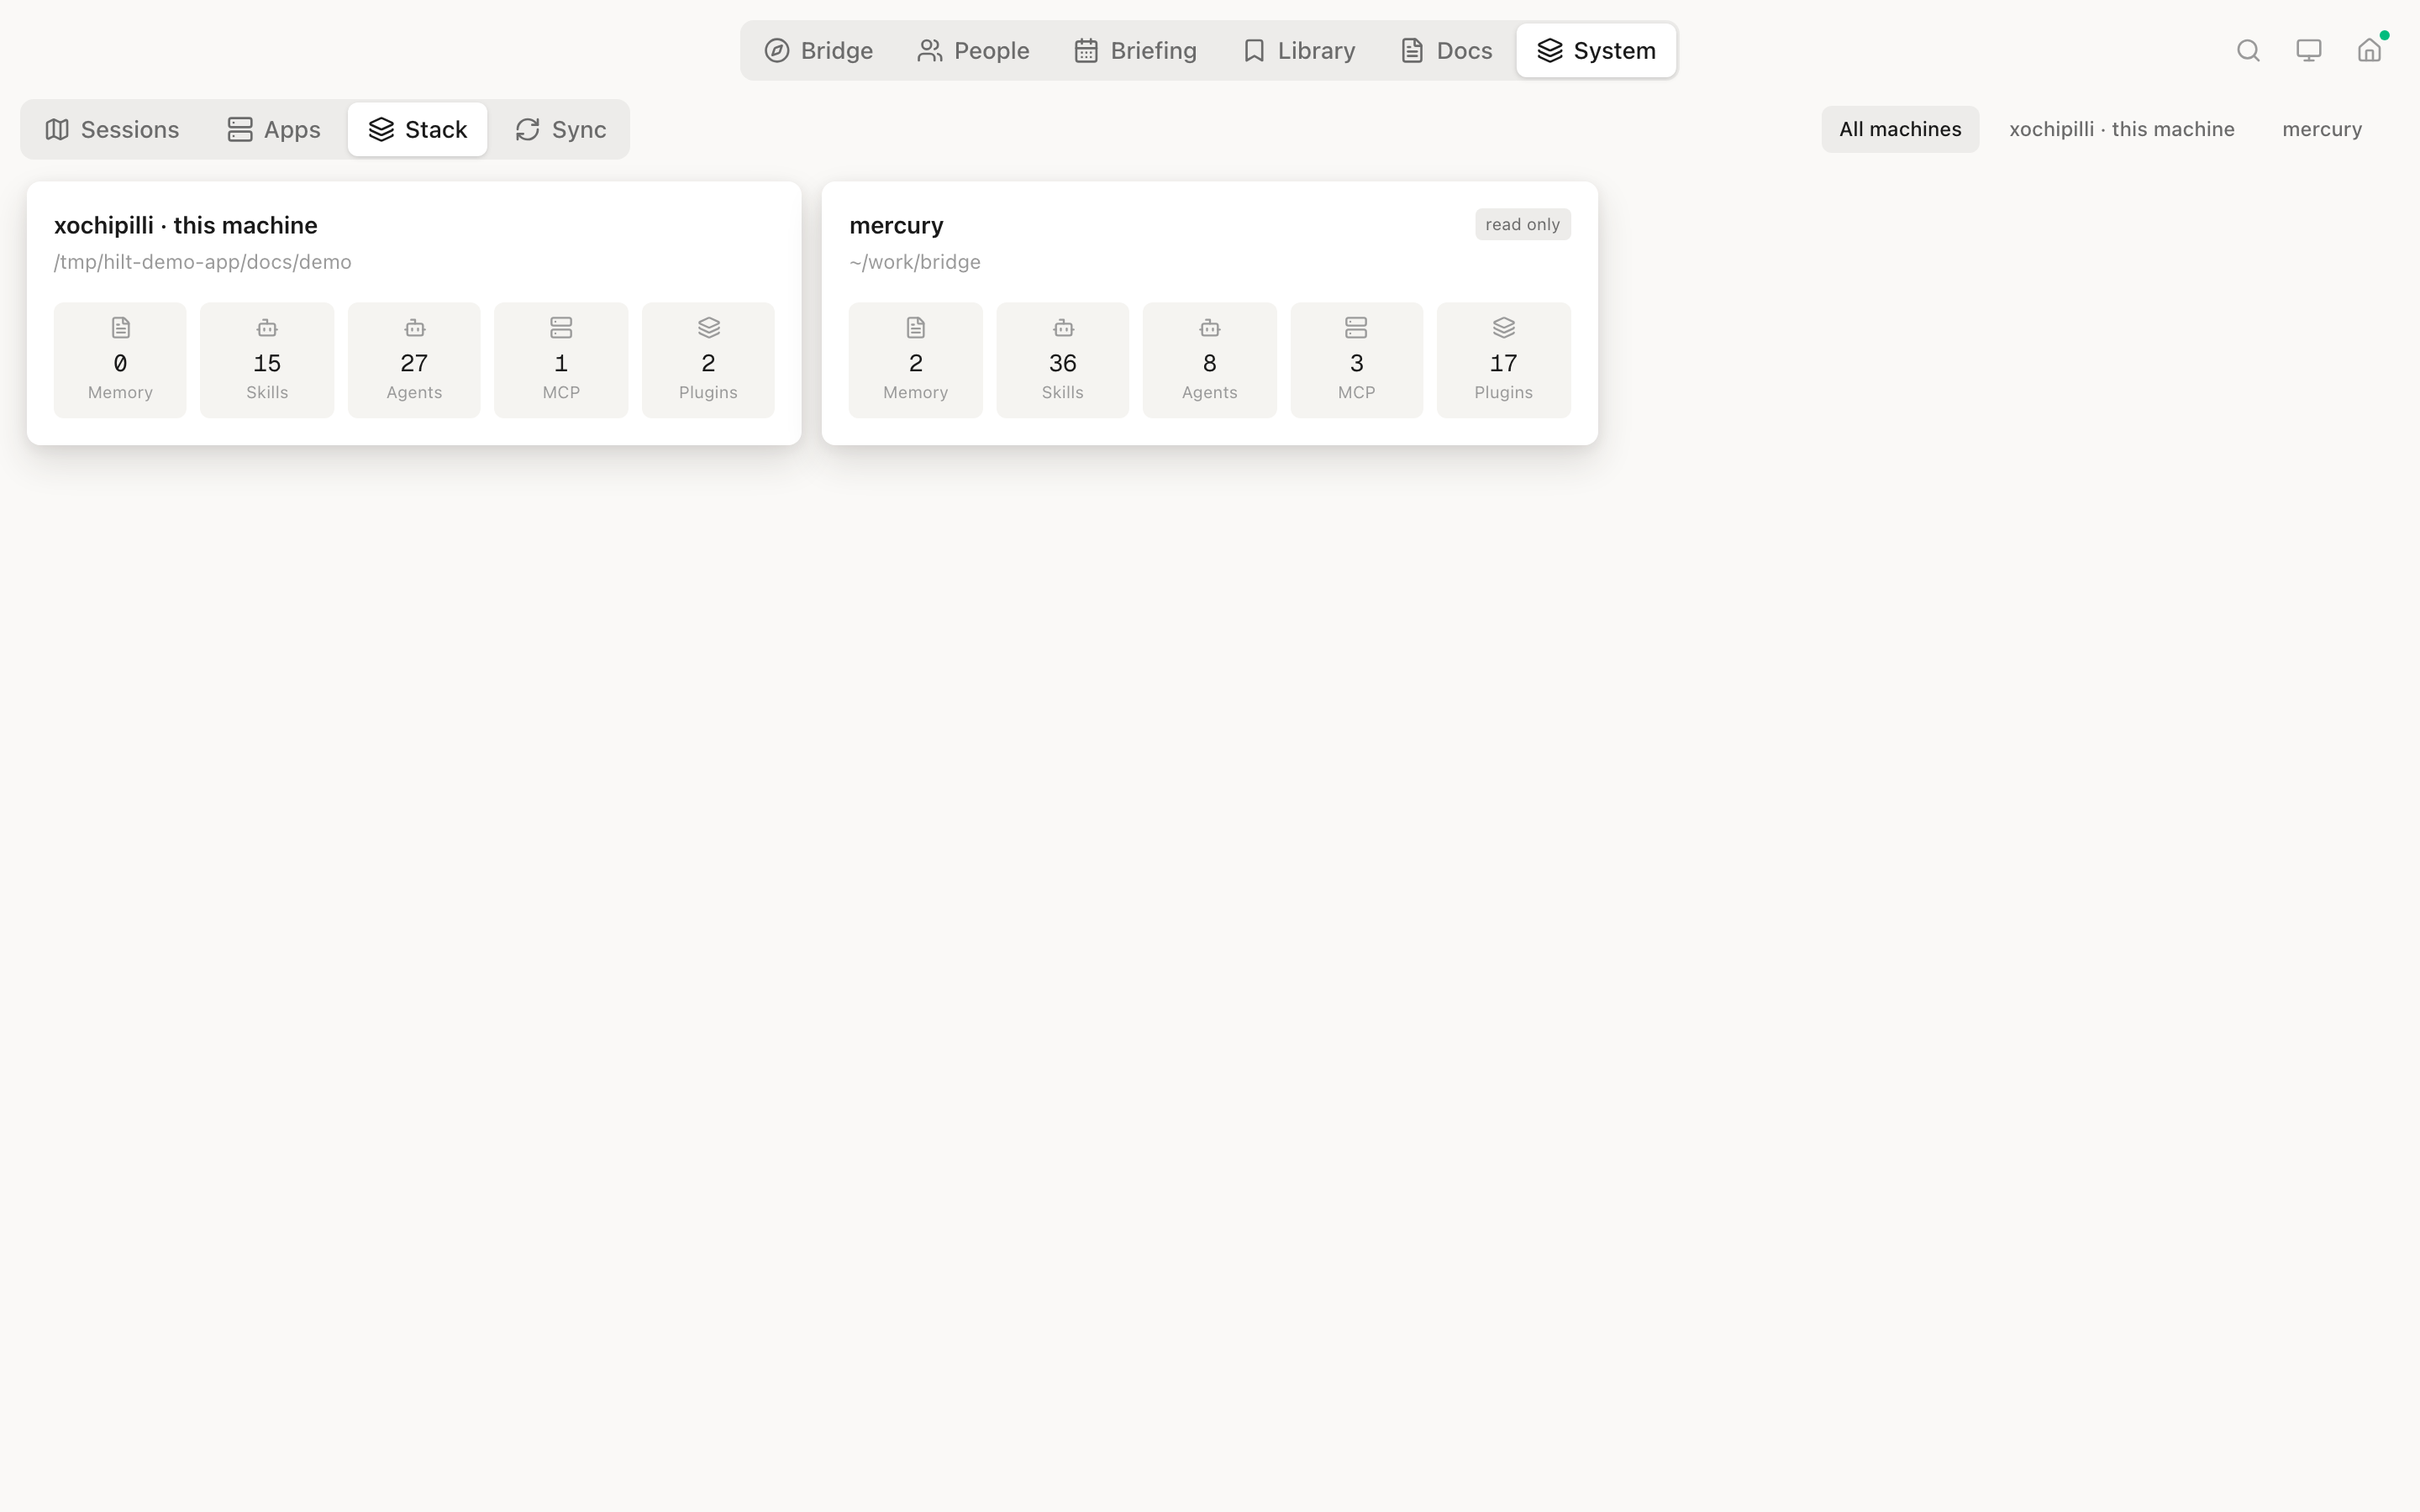
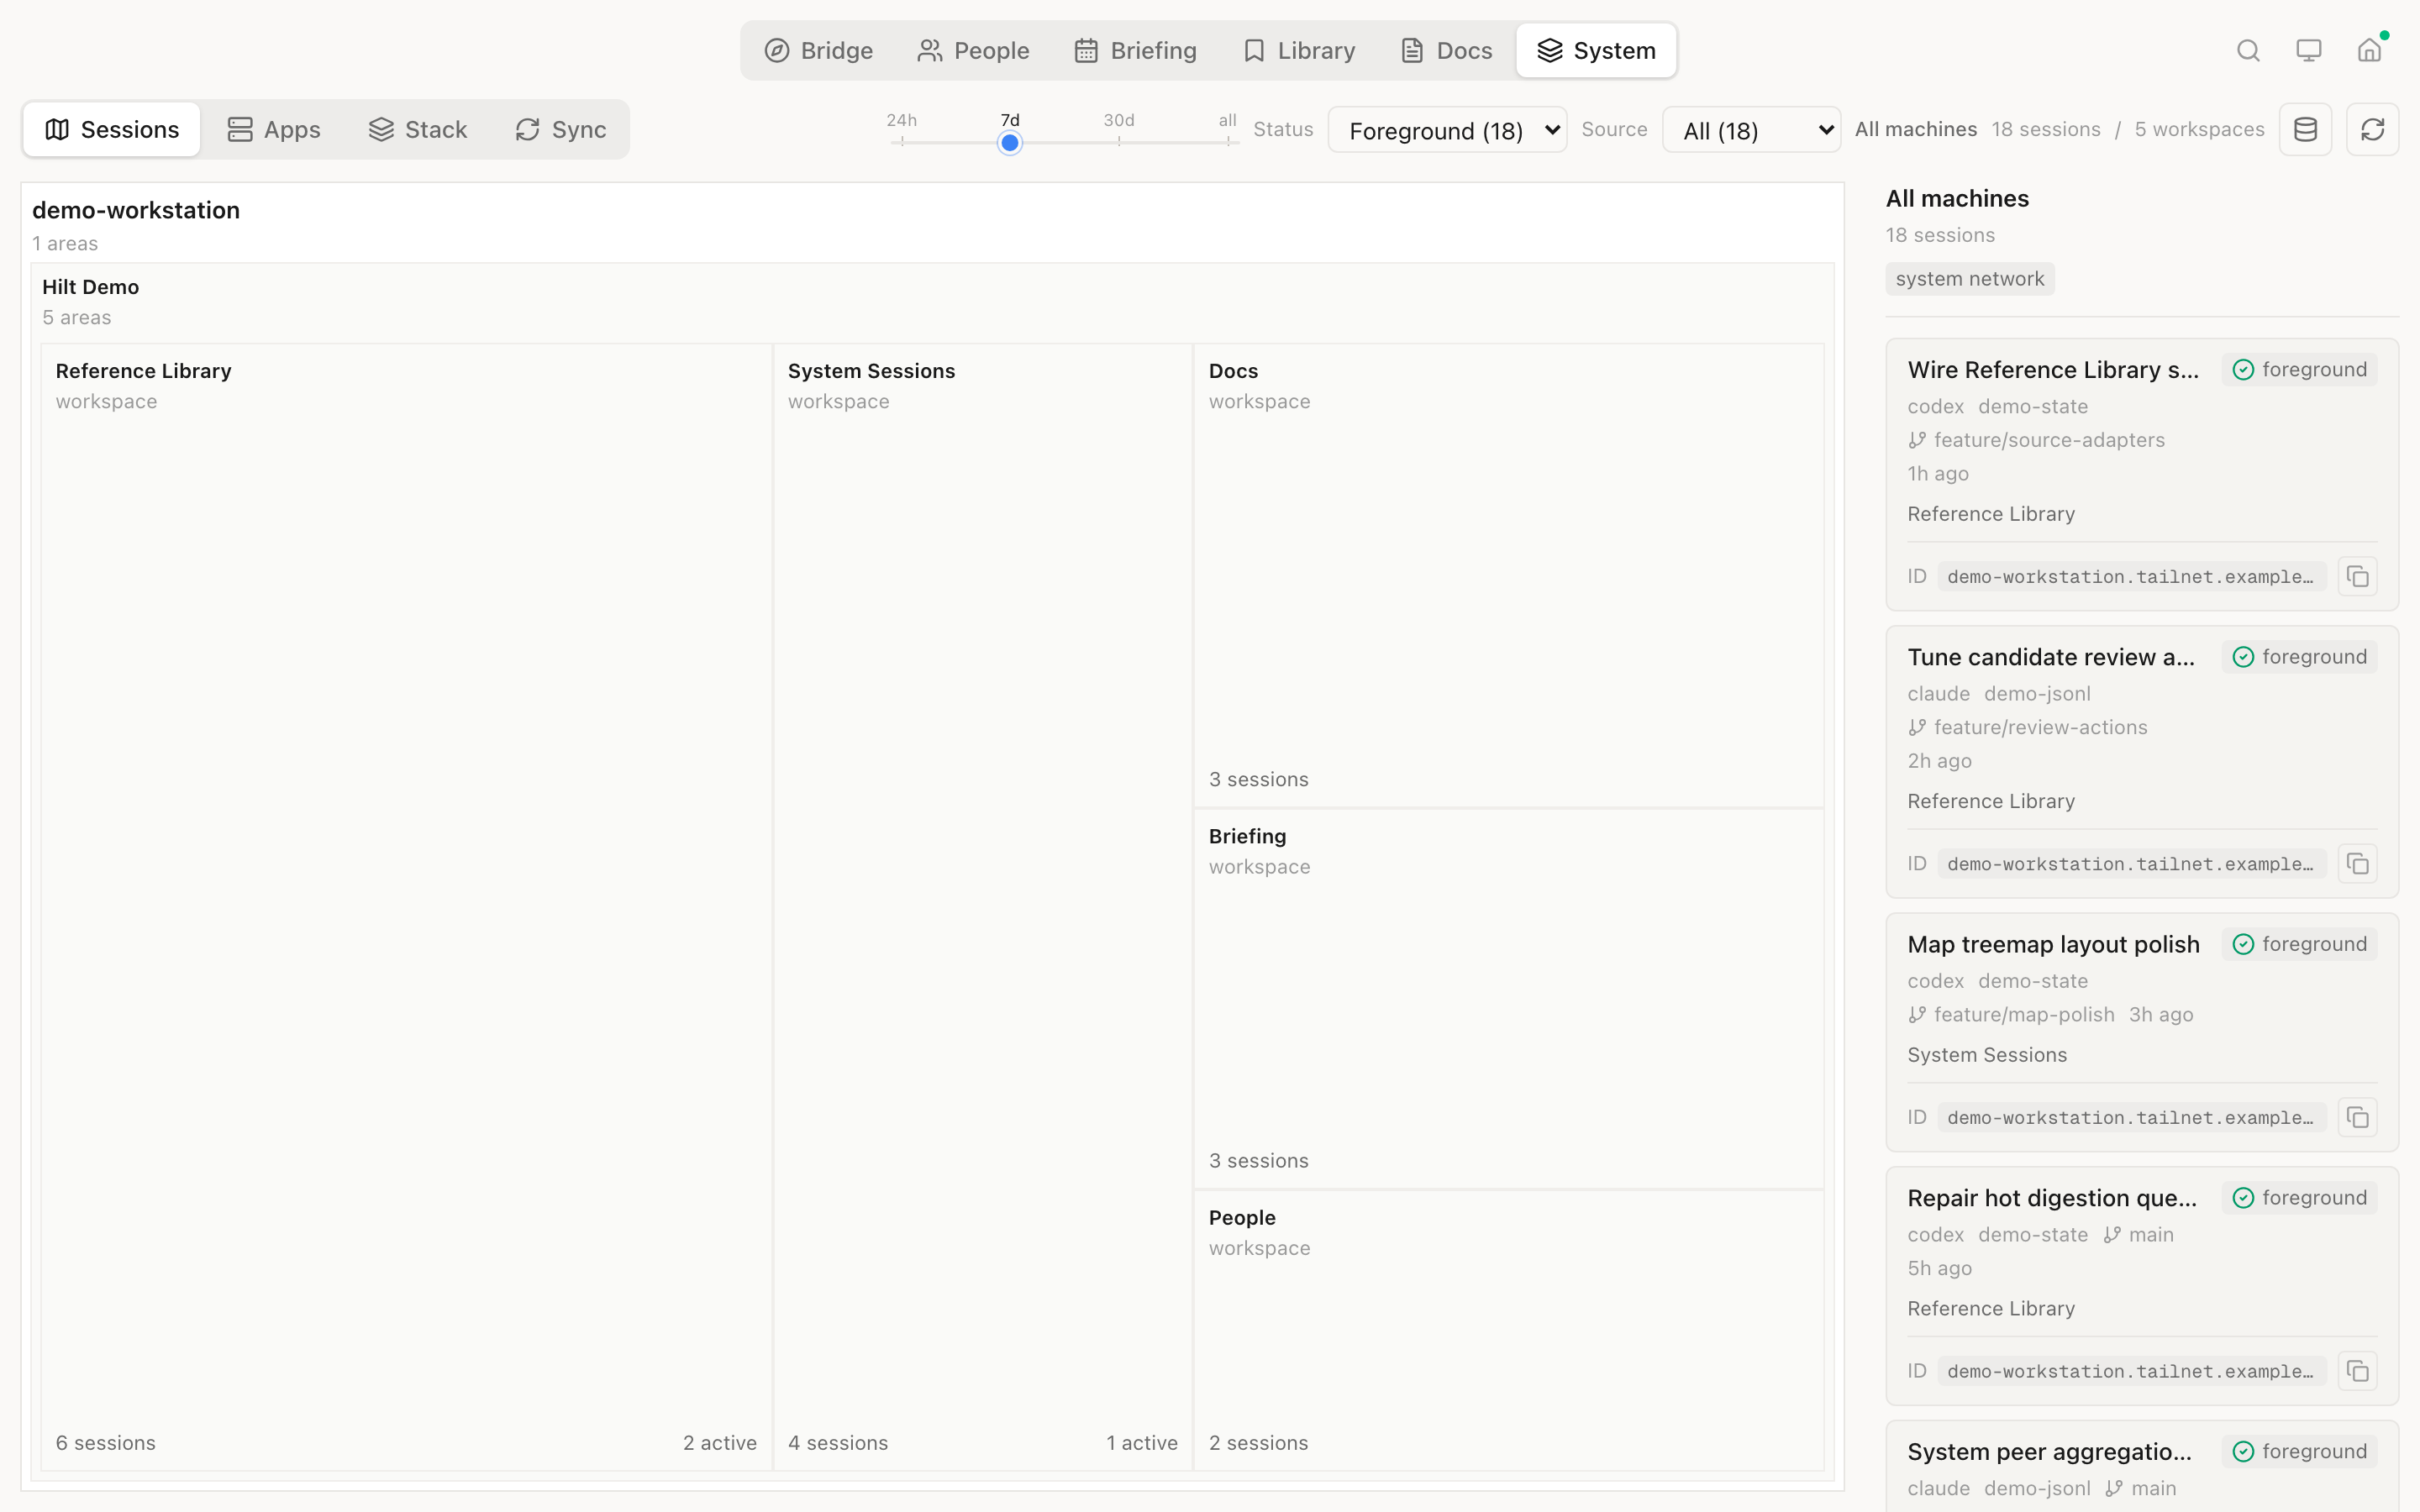
Polish README demo screenshots

diff --git a/scripts/seed-demo-map.ts b/scripts/seed-demo-map.ts
@@ -1,0 +1,172 @@
+import fs from "fs";
+import path from "path";
+import { openMapDbForPath, setMapMeta, upsertMapSessions, upsertSourceFileRecord } from "../src/lib/map/local-index-db";
+import type { ActivityHeat, LocalSession, LocalSessionProvider, LocalSourceStatus, WorkFootprintKind } from "../src/lib/map/local-types";
+
+const dataDir = process.env.DATA_DIR || path.join(process.cwd(), "docs/demo/.hilt-data");
+const dbPath = process.env.HILT_MAP_DB_PATH || path.join(dataDir, "map.sqlite");
+const now = Date.now();
+const demoRoot = "/demo/hilt";
+
+interface DemoSessionInput {
+  title: string;
+  workspace: string;
+  folder: string;
+  branch?: string;
+  provider: LocalSessionProvider;
+  role?: LocalSession["role"];
+  active?: boolean;
+  background?: boolean;
+  heat: number;
+  hoursAgo: number;
+  events: number;
+  model?: string;
+  kinds?: WorkFootprintKind[];
+}
+
+function heat(value: number): ActivityHeat {
+  return {
+    heat24h: value,
+    heat7d: value * 1.25,
+    heat30d: value * 1.6,
+    heatAll: value * 2,
+  };
+}
+
+function slug(value: string): string {
+  return value.toLowerCase().replace(/[^a-z0-9]+/g, "-").replace(/^-|-$/g, "");
+}
+
+function session(input: DemoSessionInput, index: number): LocalSession {
+  const workspaceSlug = slug(input.workspace);
+  const folderPath = path.posix.join(demoRoot, workspaceSlug, input.folder);
+  const externalId = `demo-session-${String(index + 1).padStart(2, "0")}`;
+  const providerHarness = input.provider === "codex" ? "demo-state" : "demo-jsonl";
+
+  return {
+    id: `${input.provider}:${externalId}`,
+    provider: input.provider,
+    harness: providerHarness,
+    externalId,
+    externalKey: `${input.provider}:${providerHarness}:${externalId}`,
+    title: input.title,
+    cwd: path.posix.join(demoRoot, workspaceSlug),
+    workspaceRoot: path.posix.join(demoRoot, workspaceSlug),
+    workspaceLabel: input.workspace,
+    spaceLabel: "Hilt Demo",
+    repoRemote: `[email redacted]:hilt/${workspaceSlug}.git`,
+    gitBranch: input.branch || "main",
+    modelProvider: input.provider === "codex" ? "OpenAI" : "Anthropic",
+    model: input.model || (input.provider === "codex" ? "gpt-5-codex" : "claude-sonnet"),
+    role: input.role || "orchestrator",
+    observedState: input.active ? "active" : "idle",
+    trackingState: input.background ? "background" : "foreground",
+    sourcePath: `/demo/sources/${input.provider}/${externalId}.jsonl`,
+    createdAt: now - (input.hoursAgo + 3) * 60 * 60 * 1000,
+    lastSeenAt: now - input.hoursAgo * 60 * 60 * 1000,
+    lastActivityAt: now - input.hoursAgo * 60 * 60 * 1000,
+    eventCount: input.events,
+    tokenEstimate: input.events * 840,
+    workFootprint: [{
+      path: folderPath,
+      label: input.folder,
+      weight: Math.max(1, Math.round(input.heat)),
+      eventCount: input.events,
+      kinds: input.kinds || ["read", "write", "search"],
+    }],
+    activity: heat(input.heat),
+    signals: [
+      input.active ? "active demo work" : "recent demo work",
+      input.provider,
+      input.role || "orchestrator",
+    ],
+    ignoreReasons: input.background ? ["demo background worker"] : [],
+  };
+}
+
+const sessionInputs: DemoSessionInput[] = [
+  { title: "Wire Reference Library source adapters", workspace: "Reference Library", folder: "src/lib/library", branch: "feature/source-adapters", provider: "codex", active: true, heat: 9.6, hoursAgo: 1, events: 42 },
+  { title: "Tune candidate review actions", workspace: "Reference Library", folder: "src/components/library", branch: "feature/review-actions", provider: "claude", active: true, heat: 8.8, hoursAgo: 2, events: 38 },
+  { title: "Repair hot digestion queue", workspace: "Reference Library", folder: "scripts", provider: "codex", heat: 7.9, hoursAgo: 5, events: 35 },
+  { title: "Summarize media cache contract", workspace: "Reference Library", folder: "docs", provider: "claude", heat: 6.2, hoursAgo: 8, events: 26 },
+  { title: "Backfill dry-run report pass", workspace: "Reference Library", folder: "src/lib/library", branch: "feature/backfill-reports", provider: "codex", heat: 5.8, hoursAgo: 14, events: 24 },
+  { title: "Newsletter candidate parser", workspace: "Reference Library", folder: "src/lib/library/adapters", provider: "claude", heat: 4.5, hoursAgo: 22, events: 19 },
+  { title: "Candidate cleanup worker", workspace: "Reference Library", folder: "src/lib/library", provider: "codex", role: "worker", background: true, heat: 3.1, hoursAgo: 28, events: 15 },
+
+  { title: "Map treemap layout polish", workspace: "System Sessions", folder: "src/components/map", branch: "feature/map-polish", provider: "codex", active: true, heat: 7.4, hoursAgo: 3, events: 31 },
+  { title: "System peer aggregation review", workspace: "System Sessions", folder: "src/lib/system", provider: "claude", heat: 6.8, hoursAgo: 6, events: 29 },
+  { title: "Session history detail smoke", workspace: "System Sessions", folder: "src/app/api/system", provider: "codex", heat: 5.5, hoursAgo: 11, events: 21 },
+  { title: "Map fixture screenshot seed", workspace: "System Sessions", folder: "scripts", provider: "codex", heat: 4.9, hoursAgo: 18, events: 18 },
+  { title: "Remote machine probe worker", workspace: "System Sessions", folder: "src/lib/system", provider: "claude", role: "worker", background: true, heat: 2.5, hoursAgo: 30, events: 12 },
+
+  { title: "Markdown rendering parity", workspace: "Docs", folder: "src/components/docs", branch: "fix/markdown-render", provider: "claude", heat: 6.6, hoursAgo: 7, events: 28 },
+  { title: "Wikilink resolver edge cases", workspace: "Docs", folder: "src/lib/docs", provider: "codex", heat: 4.7, hoursAgo: 19, events: 17 },
+  { title: "Docs screenshot refresh", workspace: "Docs", folder: "docs/screenshots", provider: "codex", heat: 3.9, hoursAgo: 26, events: 11 },
+
+  { title: "Meeting transcript matching", workspace: "People", folder: "src/lib/people", provider: "claude", heat: 5.4, hoursAgo: 12, events: 22 },
+  { title: "People inbox suggestion flow", workspace: "People", folder: "src/components/people", provider: "codex", heat: 3.8, hoursAgo: 32, events: 14 },
+  { title: "Group note timeline worker", workspace: "People", folder: "src/lib/people", provider: "claude", role: "worker", background: true, heat: 2.2, hoursAgo: 42, events: 9 },
+
+  { title: "Daily briefing read state", workspace: "Briefing", folder: "src/components/briefings", provider: "codex", heat: 5.1, hoursAgo: 9, events: 20 },
+  { title: "Briefing source recap card", workspace: "Briefing", folder: "docs/demo/briefings", provider: "claude", heat: 4.2, hoursAgo: 16, events: 16 },
+  { title: "Unread badge regression check", workspace: "Briefing", folder: "src/hooks", provider: "codex", heat: 3.2, hoursAgo: 36, events: 12 },
+];
+
+function resetDbFiles() {
+  fs.mkdirSync(path.dirname(dbPath), { recursive: true });
+  for (const candidate of [dbPath, `${dbPath}-wal`, `${dbPath}-shm`]) {
+    fs.rmSync(candidate, { force: true });
+  }
+}
+
+function sourceStatus(provider: LocalSessionProvider, count: number): LocalSourceStatus {
+  return {
+    id: `demo-${provider}`,
+    label: provider === "codex" ? "Demo Codex sessions" : "Demo Claude sessions",
+    kind: provider,
+    harness: provider === "codex" ? "demo-state" : "demo-jsonl",
+    path: `/demo/sources/${provider}`,
+    ok: true,
+    sessionCount: count,
+    lastReadAt: now,
+    filesScanned: count,
+    filesChanged: count,
+  };
+}
+
+resetDbFiles();
+
+const db = openMapDbForPath(dbPath);
+const sessions = sessionInputs.map(session);
+upsertMapSessions(db, sessions);
+
+for (const provider of ["codex", "claude"] as const) {
+  const count = sessions.filter((item) => item.provider === provider).length;
+  upsertSourceFileRecord(db, {
+    path: `/demo/sources/${provider}`,
+    provider,
+    harness: provider === "codex" ? "demo-state" : "demo-jsonl",
+    mtimeMs: now,
+    sizeBytes: count * 1024,
+    lastScannedAt: now,
+    status: "ok",
+  });
+}
+
+setMapMeta(db, "last_scan_at", now + 24 * 60 * 60 * 1000);
+setMapMeta(db, "last_scan_diagnostics", {
+  lastScanAt: now,
+  durationMs: 12,
+  filesScanned: sessions.length,
+  filesChanged: sessions.length,
+  errors: [],
+  indexedSessionCount: sessions.length,
+  sourceStatuses: [
+    sourceStatus("codex", sessions.filter((item) => item.provider === "codex").length),
+    sourceStatus("claude", sessions.filter((item) => item.provider === "claude").length),
+  ],
+});
+
+db.close();
+
+console.log(`Seeded ${sessions.length} demo Map sessions at ${dbPath}`);

diff --git a/src/lib/system/system.test.ts b/src/lib/system/system.test.ts
@@ -6,6 +6,7 @@ import { join } from "node:path";
 import http from "node:http";
 import { isSystemMode, stackScopeFromSystemUrl, systemModeFromUrl, systemScopeForMode } from "./navigation";
 import { decodeSystemNodeId, decodeSystemSessionId, systemMachineNodeId, systemNodeId, systemSessionId } from "./map";
+import { machineIdentity } from "../local-apps/tailnet";
 import { machineId, machineLabel } from "./peers";
 import { __resetSystemSyncCacheForTests, collectConflictFiles, readLocalSystemSync } from "./sync";
 import type { SystemMachine } from "./types";
@@ -33,6 +34,30 @@ describe("system machine ids", () => {
 
     assert.equal(machineId(machine), "xochipilli");
     assert.equal(machineLabel(machine), "xochipilli");
+  });
+
+  it("supports an explicit demo/screenshot machine identity override", () => {
+    const previousHostname = process.env.HILT_SYSTEM_MACHINE_HOSTNAME;
+    const previousDns = process.env.HILT_SYSTEM_MACHINE_DNS;
+    const previousIp4 = process.env.HILT_SYSTEM_MACHINE_IP4;
+    try {
+      process.env.HILT_SYSTEM_MACHINE_HOSTNAME = "demo-workstation";
+      process.env.HILT_SYSTEM_MACHINE_DNS = "demo-workstation.tailnet.example";
+      process.env.HILT_SYSTEM_MACHINE_IP4 = "100.64.0.10";
+
+      const machine = machineIdentity();
+      assert.equal(machine.hostname, "demo-workstation");
+      assert.equal(machine.tailscale_dns, "demo-workstation.tailnet.example");
+      assert.equal(machine.tailscale_ip4, "100.64.0.10");
+      assert.equal(machineLabel(machine), "demo-workstation");
+    } finally {
+      if (previousHostname === undefined) delete process.env.HILT_SYSTEM_MACHINE_HOSTNAME;
+      else process.env.HILT_SYSTEM_MACHINE_HOSTNAME = previousHostname;
+      if (previousDns === undefined) delete process.env.HILT_SYSTEM_MACHINE_DNS;
+      else process.env.HILT_SYSTEM_MACHINE_DNS = previousDns;
+      if (previousIp4 === undefined) delete process.env.HILT_SYSTEM_MACHINE_IP4;
+      else process.env.HILT_SYSTEM_MACHINE_IP4 = previousIp4;
+    }
   });
 });
 

diff --git a/src/lib/local-apps/tailnet.ts b/src/lib/local-apps/tailnet.ts
@@ -184,6 +184,9 @@ export function publicHostForListener(host: string): string {
 }
 
 export function machineIdentity(): MachineIdentity {
+  const override = machineIdentityOverride();
+  if (override) return override;
+
   return {
     hostname: os.hostname(),
     tailscale_dns: previewHostFromStatus(),
@@ -193,6 +196,9 @@ export function machineIdentity(): MachineIdentity {
 }
 
 export async function machineIdentityAsync(): Promise<MachineIdentity> {
+  const override = machineIdentityOverride();
+  if (override) return override;
+
   const [status, ip4] = await Promise.all([
     tailnetStatusAsync(),
     tailscaleIp4Async(),
@@ -205,6 +211,20 @@ export async function machineIdentityAsync(): Promise<MachineIdentity> {
     hostname: os.hostname(),
     tailscale_dns: dns,
     tailscale_ip4: ip4,
+    origin: "local",
+  };
+}
+
+function machineIdentityOverride(): MachineIdentity | null {
+  const hostname = process.env.HILT_SYSTEM_MACHINE_HOSTNAME?.trim();
+  const dns = process.env.HILT_SYSTEM_MACHINE_DNS?.trim().replace(/\.$/, "");
+  const ip4 = process.env.HILT_SYSTEM_MACHINE_IP4?.trim();
+  if (!hostname && !dns && !ip4) return null;
+
+  return {
+    hostname: hostname || dns?.split(".")[0] || ip4 || "hilt-demo",
+    tailscale_dns: dns || null,
+    tailscale_ip4: ip4 || null,
     origin: "local",
   };
 }

diff --git a/README.md b/README.md
@@ -37,11 +37,9 @@ Daily briefings generated by agents. Browse past briefings, track read state, re
 
 ### Library
 
-![Library feed](docs/screenshots/library-feed.png)
+![Library browse](docs/screenshots/library-browse.png)
 
 File-native reference ingestion and review. The Library has a Feed for Recent and For You, plus a dense Browse view for source-level triage.
-
-![Library browse](docs/screenshots/library-browse.png)
 
 It distinguishes durable saved references from temporary candidates, renders markdown summaries instead of raw markup, embeds media, keeps cached source/transcripts available, supports Save/Skip/Archive actions, and exposes scheduler/source health from the header.
 
@@ -53,7 +51,7 @@ Browse and edit markdown, code, media, CSVs, PDFs, and diagrams. Docs uses a pla
 
 ### System
 
-![System view](docs/screenshots/system.png)
+![System sessions treemap](docs/screenshots/system.png)
 
 Operational inspection for the machine and agent environment. System contains Sessions, Apps, Stack, and Sync modes. It can show local/tailnet Hilt peers, running local apps, Claude/Codex configuration layers, MCP/plugin state, and Syncthing health without making those inspection lenses top-level product tabs.
 
@@ -113,6 +111,7 @@ Edit `.env.local` with your settings:
 | `NEXT_PUBLIC_REMOTE_HOST` | No | Remote hostname such as a Tailscale Serve host. |
 | `HILT_LOCAL_APPS_ENABLED` | No | Enables the System > Apps local/tailnet app monitor. |
 | `HILT_SYSTEM_NETWORK_ENABLED` | No | Set to `false` to keep System peer discovery local-only. |
+| `HILT_SYSTEM_MACHINE_HOSTNAME`, `HILT_SYSTEM_MACHINE_DNS`, `HILT_SYSTEM_MACHINE_IP4` | No | Optional demo/screenshot overrides for the displayed System machine identity. |
 
 Reference Library source credentials are optional and live in `.env.local` too. Raindrop uses `RAINDROP_TOKEN`; YouTube liked videos/bookmark playlists use OAuth fields; X/Twitter bookmarks can use scoped `xurl`; Superhuman News uses MCP OAuth through `mcp-remote`. See [.env.example](.env.example) and [docs/API.md](docs/API.md) for the exact keys and commands.
 
@@ -120,10 +119,10 @@ Reference Library source credentials are optional and live in `.env.local` too. 
 > Want to try Hilt without touching your own files? Use the included demo vault:
 >
 > ```bash
-> HILT_WORKING_FOLDER=./docs/demo BRIDGE_VAULT_PATH=./docs/demo npm run dev:all
+> npm run dev:demo
 > ```
 >
-> The demo includes briefings, tasks, projects, people, meetings, saved references, Library candidates, and source configs. It is the same content family used for the screenshots above.
+> The demo includes briefings, tasks, projects, people, meetings, saved references, Library candidates, source configs, and synthetic System session-map data. It is the same content family used for the screenshots above.
 
 ### Run
 

diff --git a/docs/CHANGELOG.md b/docs/CHANGELOG.md
@@ -6,6 +6,10 @@ Format: [Keep a Changelog](https://keepachangelog.com/en/1.1.0/)
 
 ## [Unreleased]
 
+### Changed
+
+- **README demo screenshot privacy pass** — Reduced the Library README section to one Browse screenshot and replaced the System screenshot with a fake demo Sessions treemap instead of a live Stack view that exposed real machine names. Added `npm run demo:seed-map` and `npm run dev:demo` so the demo System view can be populated with synthetic map data.
+
 ## [6.0.0] - 2026-05-28
 
 ### Added
@@ -46,7 +50,7 @@ Format: [Keep a Changelog](https://keepachangelog.com/en/1.1.0/)
 
 - **Repository agent instructions and historical Map plan** — Added repo-local `AGENTS.md`, Codex documentation reminder hooks, the Hilt control skill, and the superseded Convex Map plan so Xochipilli, Mercury, and origin share the same agent-facing project context.
 
-- **v6 release documentation and demo vault** — Refreshed the README for the current Bridge, People, Briefing, Library, Docs, and System navigation model; added demo Library saved references, candidates, source configs, and rich media assets; and recaptured README screenshots for all top-level views including Library Feed, Library Browse, and System.
+- **v6 release documentation and demo vault** — Refreshed the README for the current Bridge, People, Briefing, Library, Docs, and System navigation model; added demo Library saved references, candidates, source configs, and rich media assets; and recaptured README screenshots for all top-level views including Library Browse and System.
 
 ### Changed
 

diff --git a/docs/API.md b/docs/API.md
@@ -273,6 +273,8 @@ Returns the latest scan diagnostics and source status list.
 
 System is the top-level inspection surface for Sessions, Apps, Stack, and Sync. Peer aggregation is Hilt-to-Hilt only: the serving machine discovers online Tailscale peers, probes `/api/system/machine?scope=local`, and accepts only Hilt responses. Set `HILT_SYSTEM_NETWORK_ENABLED=false` to keep System local-only.
 
+For demo and screenshot runs, `HILT_SYSTEM_MACHINE_HOSTNAME`, `HILT_SYSTEM_MACHINE_DNS`, and `HILT_SYSTEM_MACHINE_IP4` can override the displayed local machine identity without changing the API response shape.
+
 ### GET /api/system/machine
 
 Returns the serving machine's System identity and feature availability. Peer discovery calls this with `?scope=local`.

diff --git a/docs/DEVELOPMENT.md b/docs/DEVELOPMENT.md
@@ -28,6 +28,8 @@ open http://localhost:3000
 | Script | Command | Description |
 |--------|---------|-------------|
 | `dev:all` | `npm run dev:all` | **Start development** (Next.js + WebSocket + Event servers) |
+| `dev:demo` | `npm run dev:demo` | Start Next.js against the checked-in demo vault with synthetic System session-map data |
+| `demo:seed-map` | `npm run demo:seed-map` | Seed the demo Map SQLite database used by the System Sessions screenshot |
 | `app` | `npm run app` | Build the dev-mode macOS app at `dist/Hilt.app` |
 | `build` | `npm run build` | Production build |
 | `start` | `npm run start` | Start production server |